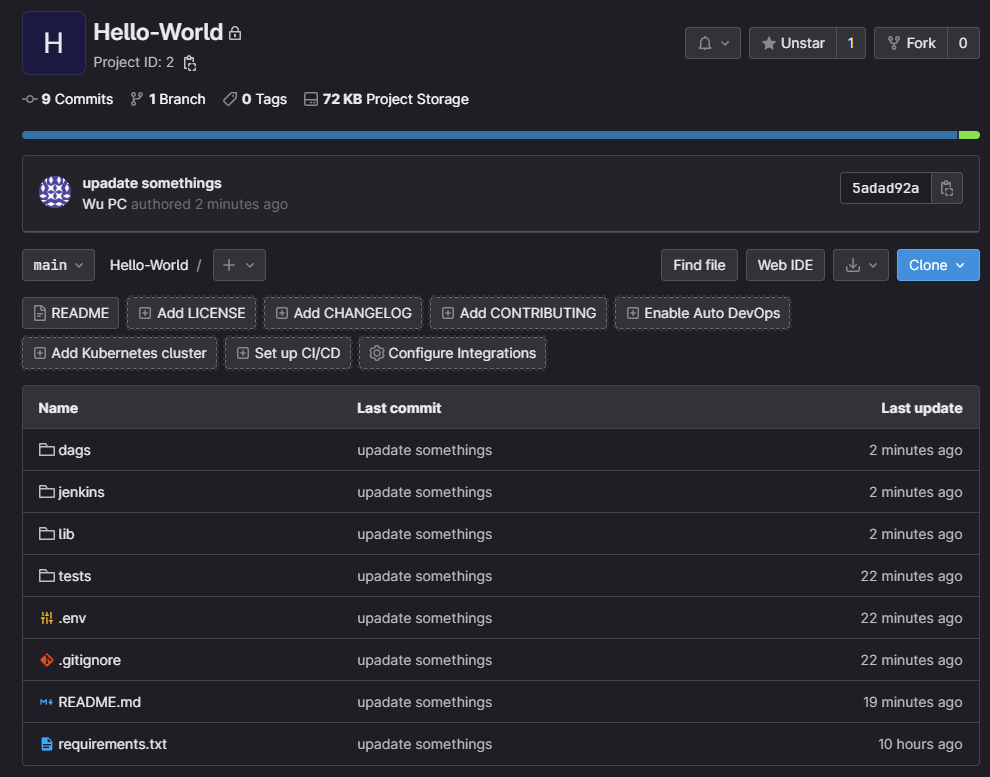
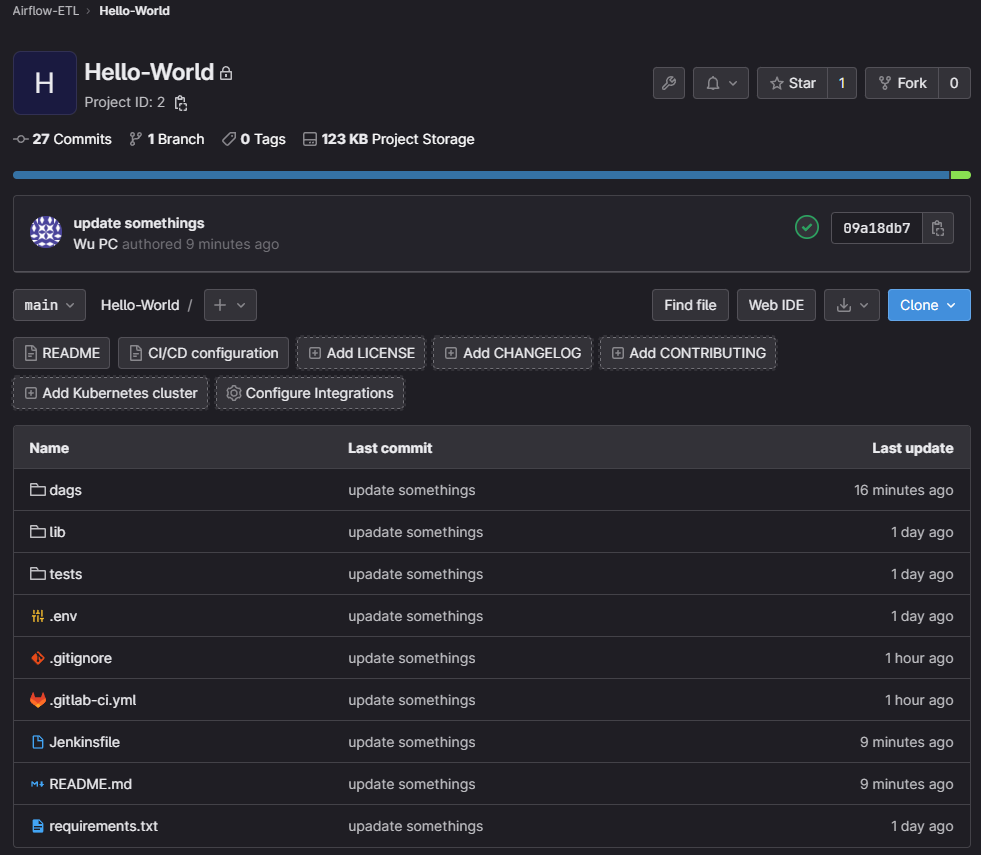
update somethings

diff --git a/Python-DAGs/Hello-World/dags/etl_branch_xcom_demo.py b/Python-DAGs/Hello-World/dags/etl_branch_xcom_demo.py
@@ -1,3 +1,9 @@
+import os, sys
+# [1] 獲取當前 DAG 檔案的目錄 (即 /opt/airflow/dags)
+# [2] 獲取 DAG 目錄的父目錄 (即 /opt/airflow/)
+# [3] 將父目錄加入到 Python 搜尋路徑中，這樣就能找到 lib/
+sys.path.append(os.path.abspath(os.path.join(os.path.dirname(__file__), '..')))
+
 from datetime import timedelta
 
 from airflow import DAG

diff --git a/Python-DAGs/Hello-World/README.md b/Python-DAGs/Hello-World/README.md
@@ -19,11 +19,9 @@ Hello-World/
 │   ├── init_db.py                 # 測試前初始化資料庫
 │   └── test_etl_processor.py
 │
-├── jenkins/
-│   └── Jenkinsfile                # CI / CD Pipeline
-│
 ├── .env
 ├── .gitignore
+├── Jenkinsfile                    # CI / CD Pipeline
 ├── README.md
 └── requirements.txt
 ```
